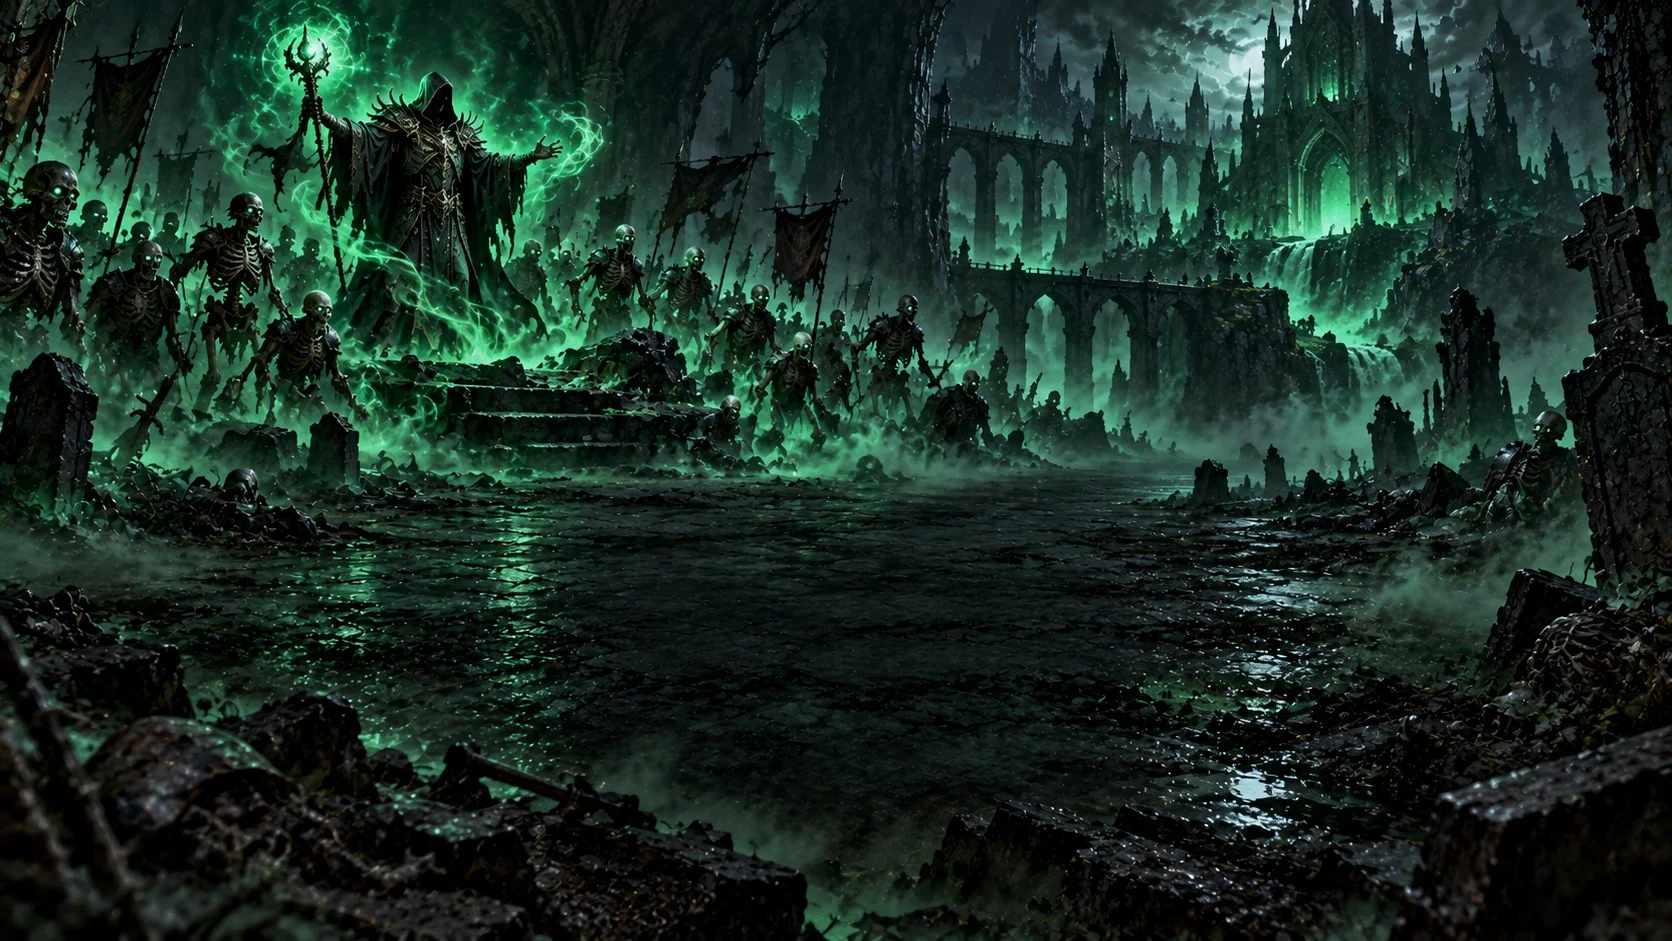
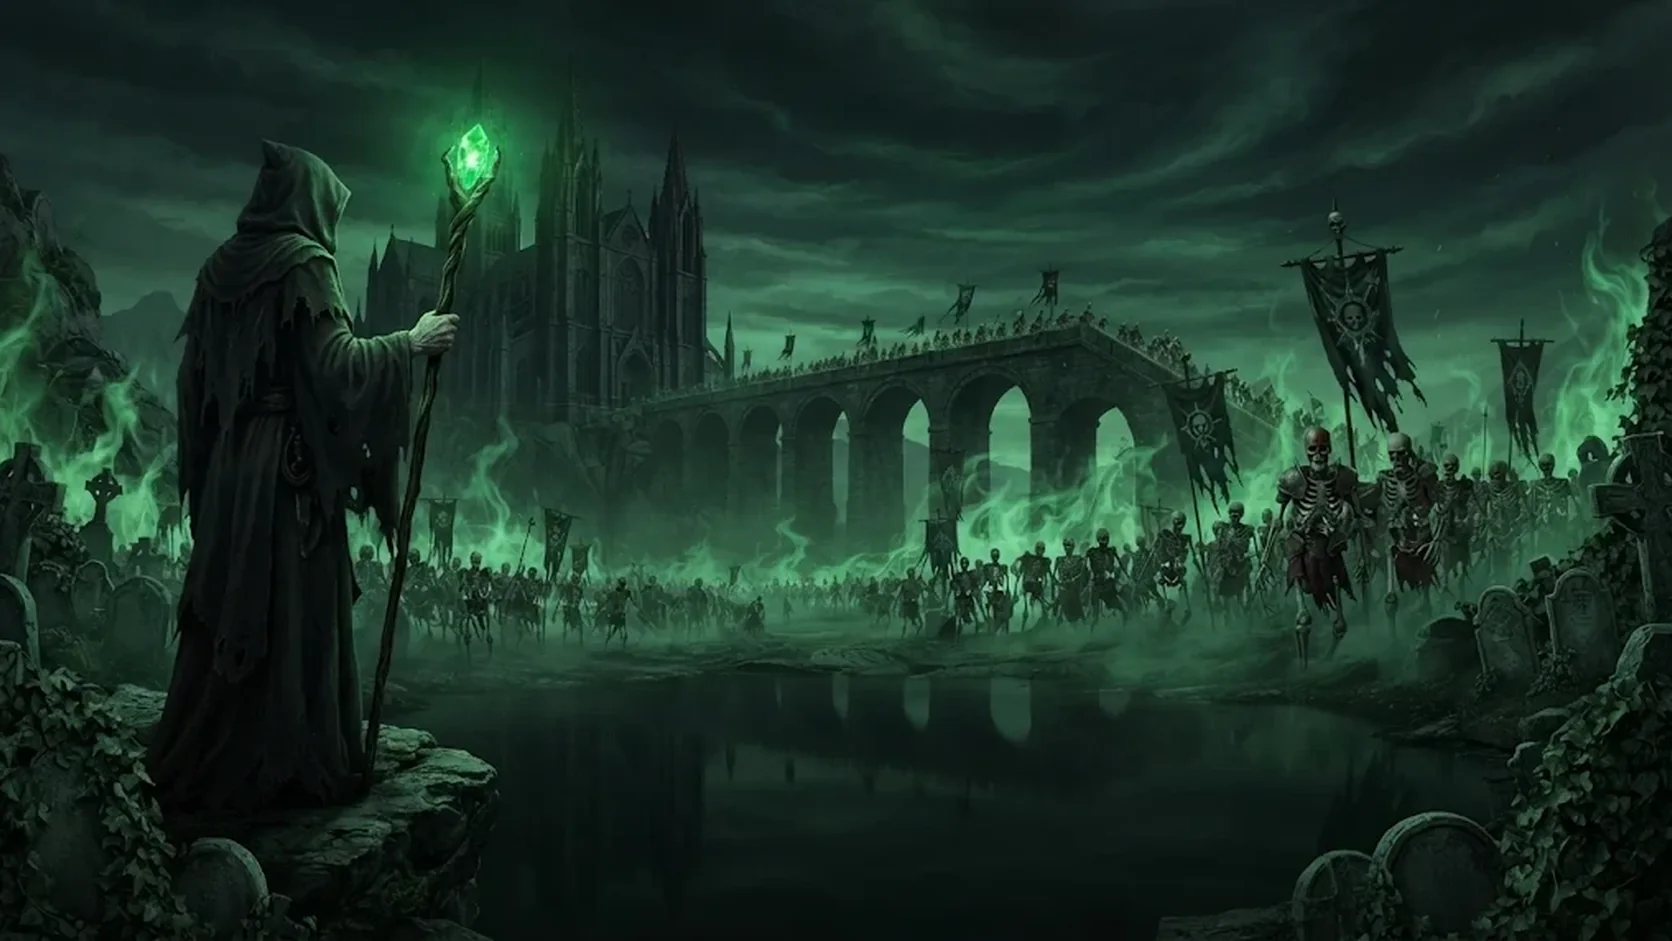
feat(art): redraw the other five play-area backgrounds (v0.78.2)
Necromancer's Dominion, Celestial Realm, Haunted Ruins, Tranquil Shores and
Eldritch Horizon get new, softer art under the same names and ids. All ten stock
backgrounds are now refreshed. Converted to the existing 1672x941 WebP and
320x180 thumbnail format.

Claude-Session: https://claude.ai/code/session_01G3QGRr2ZpyDwX6auLDBFdz

diff --git a/TESTING.md b/TESTING.md
@@ -1,14 +1,14 @@
-# New backgrounds, first five — v0.78.2 test copy
+# New backgrounds, all ten — v0.78.2 test copy
 
 To check this copy, extract the ZIP and double-click **index.html**.
 
-1. On the opening screen open **Your look** and look at the ten play-area backgrounds. **Dragon's Lair, Knight's Vigil, Into Nature, Arcane Study and Mage Duel** are the new art; the other five are the old ones.
-2. Start a practice game with each new background and put several cards on the board. Cards should stand out clearly, and the life total, zone names and buttons should stay easy to read. Check both **Sidebar** and **Grid** layouts.
-3. Compare the new ones with the old ones: are they less detailed and less "AI-made" now? Which scenes still feel too busy?
+1. On the opening screen open **Your look**: all ten play-area backgrounds are new art (Dragon's Lair, Knight's Vigil, Into Nature, Arcane Study, Mage Duel, Necromancer's Dominion, Celestial Realm, Haunted Ruins, Tranquil Shores, Eldritch Horizon).
+2. Start a practice game with each one and put several cards on the board. Cards should stand out clearly, and the life total, zone names (Lands, Artifacts / Enchantments, HAND, LIB, GY, EXILE, CMD) and buttons should stay easy to read. The brightest ones are **Celestial Realm** and **Tranquil Shores**; please look at those closely. Check both **Sidebar** and **Grid** layouts.
+3. Are they less detailed and less "AI-made" now? Which ones still feel too busy (I think Knight's Vigil and Arcane Study)?
 4. A background you already picked keeps working; it just shows the new picture.
-5. Tell me which of the five you want kept and which to redo, and send the remaining five when ready.
+5. Tell me which to keep and which to redo.
 
 ## Assistant verification
-- Every new file was checked to contain real image content, converted to the same size and format as the old ones (1672×941 WebP, 320×180 thumbnails), and shown in the real game with cards on the board and the game's dark overlay, in practice mode. I looked at screenshots of all five.
-- Into Nature and Dragon's Lair were made at only 1024×572 and were enlarged, so they are a little soft (which suits the look). Better-resolution versions can replace them.
-- Not tested: Grid layout and real displays; I have only checked the Sidebar layout in screenshots.
+- Every file was checked to contain real image content and converted to the same size and format as the old ones (1672×941 WebP with 320×180 thumbnails). All ten were shown in the real game in practice mode with cards on the board and the game's dark overlay, and I looked at screenshots. On the two brightest (Celestial Realm, Tranquil Shores) I zoomed in and the small zone labels were still readable.
+- Seven of the ten images arrived at 1024×572 and were enlarged, so they are a little soft. Higher-resolution versions can replace them.
+- Not tested: Grid layout and real displays; I only checked the Sidebar layout in screenshots.

diff --git a/GPT-CHANGES/OBJECTIVES.md b/GPT-CHANGES/OBJECTIVES.md
@@ -74,9 +74,9 @@ Show a small, dismissible reminder with a saved **Don’t show again** checkbox.
 
 Include only: **T** tap/untap or Tokens over empty battlefield; **Space** pass; **R** In response; **D** draw; **G** graveyard; **E** exile; **C** copy; **Ctrl+Z / ⌘Z** Undo.
 
-### 48. More distinctive backgrounds — In progress (first five redone, v0.78.2 test copy)
+### 48. More distinctive backgrounds — All ten redone, awaiting Chris's test (v0.78.2 test copy)
 
-Chris (2026-11-17): the stock backgrounds look too AI-made, with too much detail in walls, floors and rock. Redrawing the ten scenes one set at a time in a softer, less detailed style, keeping the same names and ids. First five (Dragon's Lair, Knight's Vigil, Into Nature, Arcane Study, Mage Duel) are in the v0.78.2 test copy; the other five are still the old art. Two of the new images (Into Nature, Dragon's Lair) arrived at 1024×572 and were enlarged to 1672×941.
+Chris (2026-11-17): the stock backgrounds look too AI-made, with too much detail in walls, floors and rock. Redrawing the ten scenes one set at a time in a softer, less detailed style, keeping the same names and ids. All ten are in the v0.78.2 test copy. Seven arrived at 1024×572 and were enlarged to 1672×941 (Into Nature, Dragon's Lair, Necromancer's Dominion, Celestial Realm, Haunted Ruins, Tranquil Shores, Eldritch Horizon); higher-resolution versions can replace them. Knight's Vigil and Arcane Study are still fairly detailed.
 
 Develop a small set of original background concepts and review the art direction with Chris before adding them. Keep cards readable and check both layouts.
 

diff --git a/CHANGELOG.md b/CHANGELOG.md
@@ -9,7 +9,7 @@ The format follows [Keep a Changelog](https://keepachangelog.com/en/1.1.0/), and
 ## [0.78.2] - 2026-11-17
 
 ### Changed
-- **Five play-area backgrounds were redrawn in a softer, less detailed style:** **Dragon's Lair**, **Knight's Vigil**, **Into Nature**, **Arcane Study** and **Mage Duel**. They keep the same names and scenes, so anyone who already picked one keeps it. The other five (Necromancer's Dominion, Celestial Realm, Haunted Ruins, Tranquil Shores, Eldritch Horizon) are unchanged for now.
+- **All ten play-area backgrounds were redrawn in a softer, less detailed style:** Dragon's Lair, Knight's Vigil, Into Nature, Arcane Study, Mage Duel, Necromancer's Dominion, Celestial Realm, Haunted Ruins, Tranquil Shores and Eldritch Horizon. They keep the same names and scenes, so anyone who already picked one keeps it. Eldritch Horizon now has a tentacled horror looming over its ruined castle.
 
 ## [0.78.1] - 2026-11-16
 
